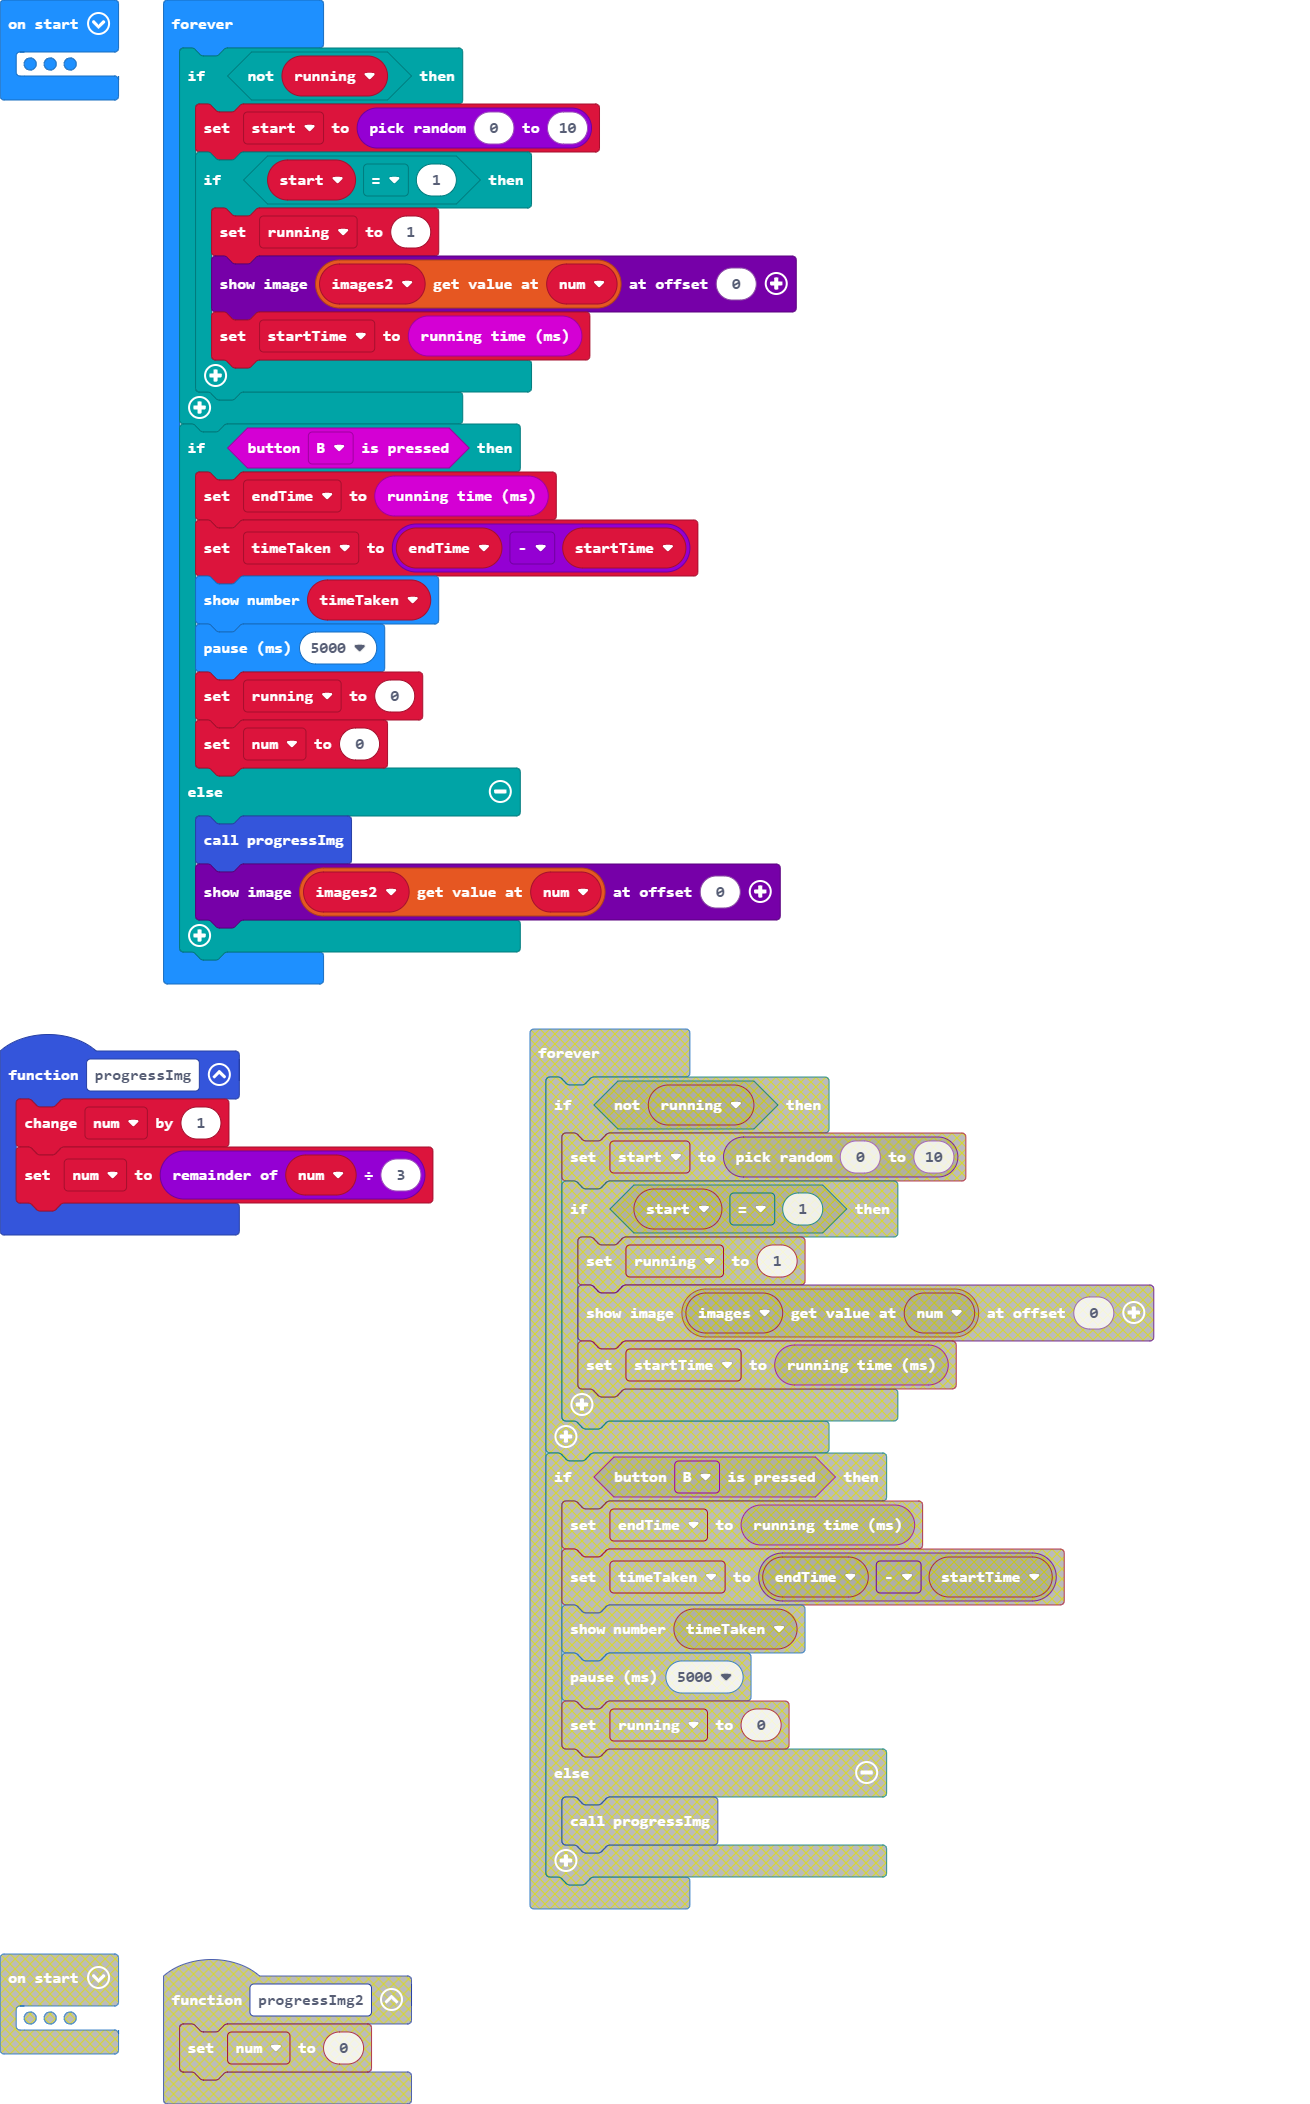
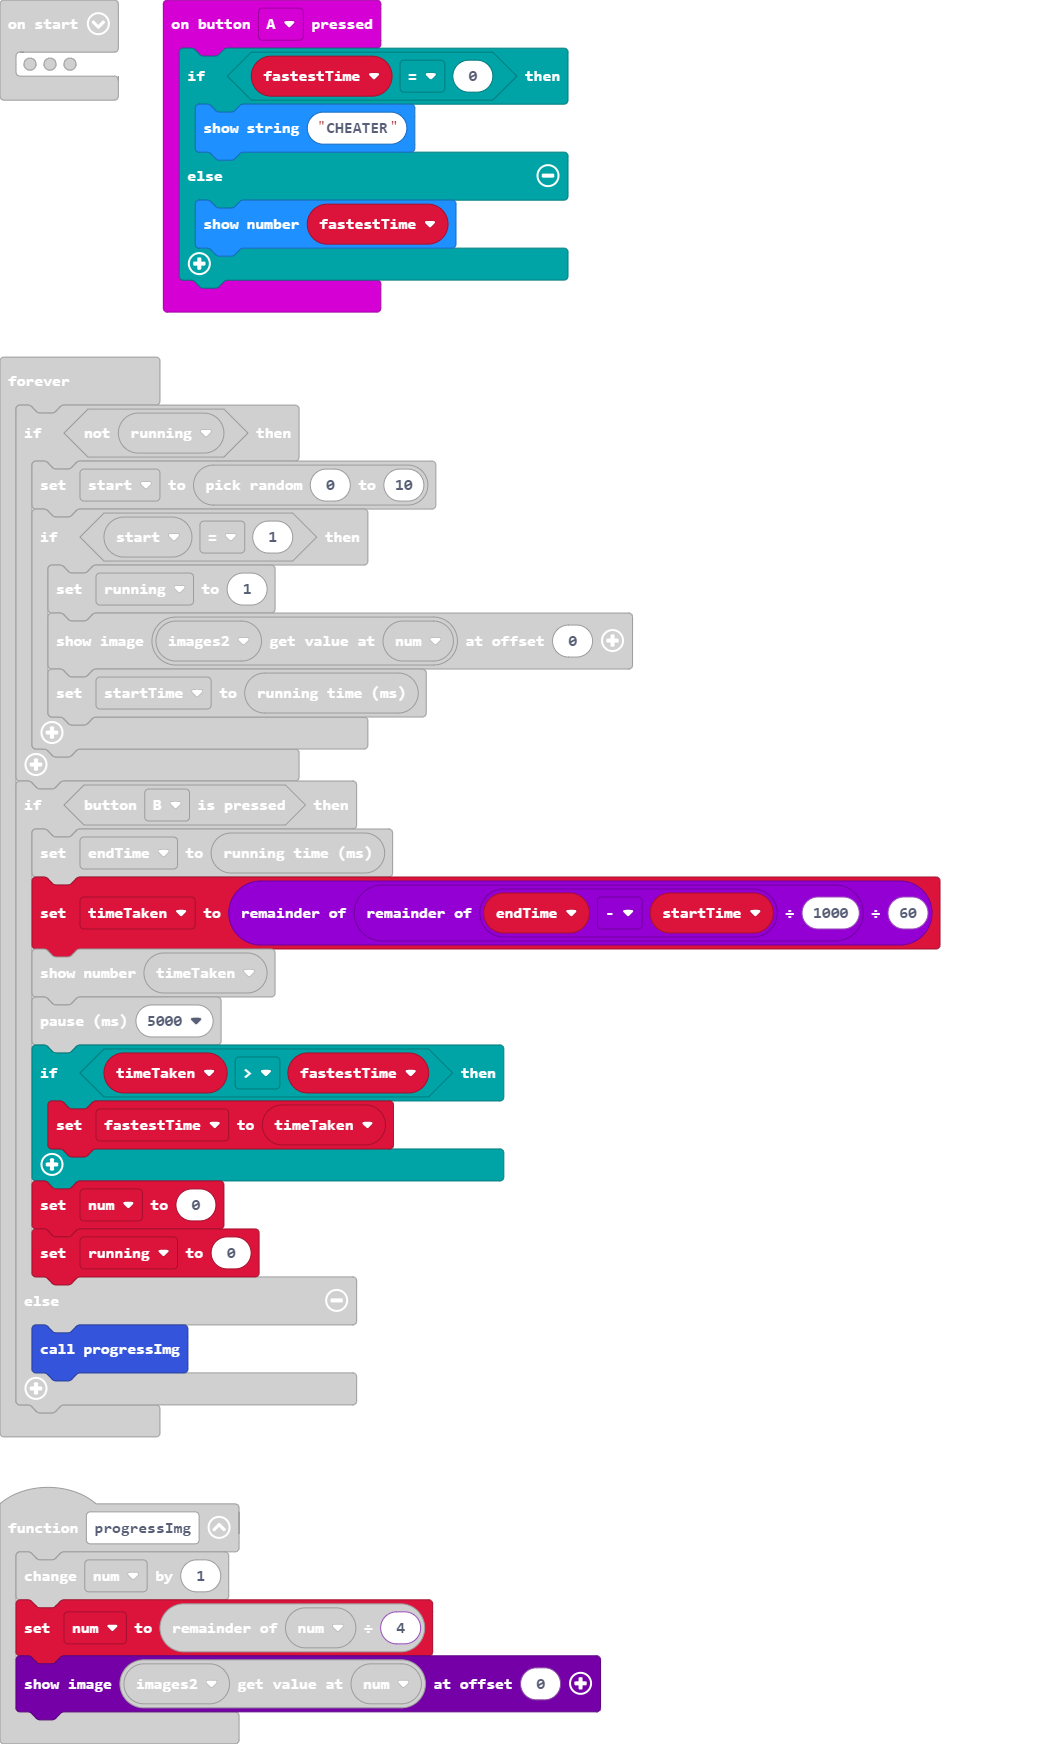
Update main.blocks, main.ts, main.py

diff --git a/main.ts b/main.ts
@@ -1,36 +1,58 @@
 function progressImg () {
     num += 1
-    num = num % 3
+    num = num % 4
+    images2[num].showImage(0)
 }
+input.onButtonPressed(Button.A, function () {
+    if (fastestTime == 0) {
+        basic.showString("CHEATER")
+    } else {
+        basic.showNumber(fastestTime)
+    }
+})
 let timeTaken = 0
 let endTime = 0
 let startTime = 0
 let start = 0
-let running = 0
+let fastestTime = 0
+let images2: Image[] = []
 let num = 0
 num = 0
+let running = 0
 let goImg = images.createImage(`
-    # # # # #
     # . . . #
+    . # . # .
+    . . # . .
+    . # . # .
     # . . . #
-    # . . . #
-    # # # # #
     `)
 let Img2 = images.createImage(`
-    . . . . .
+    . . . # .
+    # . # . .
     . # # # .
-    . # . # .
-    . # # # .
-    . . . . .
+    . . # . #
+    . # . . .
     `)
 let img3 = images.createImage(`
-    . . . . .
-    . . . . .
     . . # . .
-    . . . . .
-    . . . . .
+    . . # . .
+    # # # # #
+    . . # . .
+    . . # . .
     `)
-let images2 = [goImg, Img2, img3]
+let img4 = images.createImage(`
+    . # . . .
+    . . # . #
+    . # # # .
+    # . # . .
+    . . . # .
+    `)
+images2 = [
+goImg,
+Img2,
+img3,
+img4
+]
 basic.forever(function () {
     if (!(running)) {
         start = randint(0, 10)
@@ -42,13 +64,15 @@ basic.forever(function () {
     }
     if (input.buttonIsPressed(Button.B)) {
         endTime = input.runningTime()
-        timeTaken = endTime - startTime
+        timeTaken = (endTime - startTime) % 1000 % 60
         basic.showNumber(timeTaken)
         basic.pause(5000)
-        running = 0
+        if (timeTaken > fastestTime) {
+            fastestTime = timeTaken
+        }
         num = 0
+        running = 0
     } else {
         progressImg()
-        images2[num].showImage(0)
     }
 })

diff --git a/main.py b/main.py
@@ -1,39 +1,54 @@
 def progressImg():
     global num
     num += 1
-    num = num % 2
+    num = num % 4
+    images2[num].show_image(0)
+
+def on_button_pressed_a():
+    basic.show_number(fastestTime)
+input.on_button_pressed(Button.A, on_button_pressed_a)
+
 timeTaken = 0
 endTime = 0
 startTime = 0
 start = 0
+fastestTime = 0
+images2: List[Image] = []
+num = 0
+num = 0
 running = 0
-num = 0
-num = 0
 goImg = images.create_image("""
-    # # # # #
+    . . . . #
         # . . . #
+        # . # . #
         # . . . #
-        # . . . #
-        # # # # #
+        # . . . .
 """)
 Img2 = images.create_image("""
-    . . . . .
-        . # # # .
-        . # . # .
-        . # # # .
-        . . . . .
+    . . # # #
+        . . . . #
+        . . # . .
+        # . . . .
+        # # # . .
 """)
 img3 = images.create_image("""
-    . . . . .
+    # # # # .
         . . . . .
         . . # . .
         . . . . .
-        . . . . .
+        . # # # #
 """)
-images2 = [goImg, Img2, img3]
+img4 = images.create_image("""
+    # # . . .
+        # . . . .
+        # . # . #
+        . . . . #
+        . . . # #
+""")
+images2 = [goImg, Img2, img3, img4]
 
 def on_forever():
-    global start, running, startTime, endTime, timeTaken, num
+    global start, running, startTime, endTime, timeTaken, fastestTime, num
     if not (running):
         start = randint(0, 10)
         if start == 1:
@@ -45,8 +60,10 @@ def on_forever():
         timeTaken = endTime - startTime
         basic.show_number(timeTaken)
         basic.pause(5000)
-        running = 0
+        if timeTaken > fastestTime:
+            fastestTime = timeTaken
         num = 0
+        running = 0
     else:
         progressImg()
 basic.forever(on_forever)
